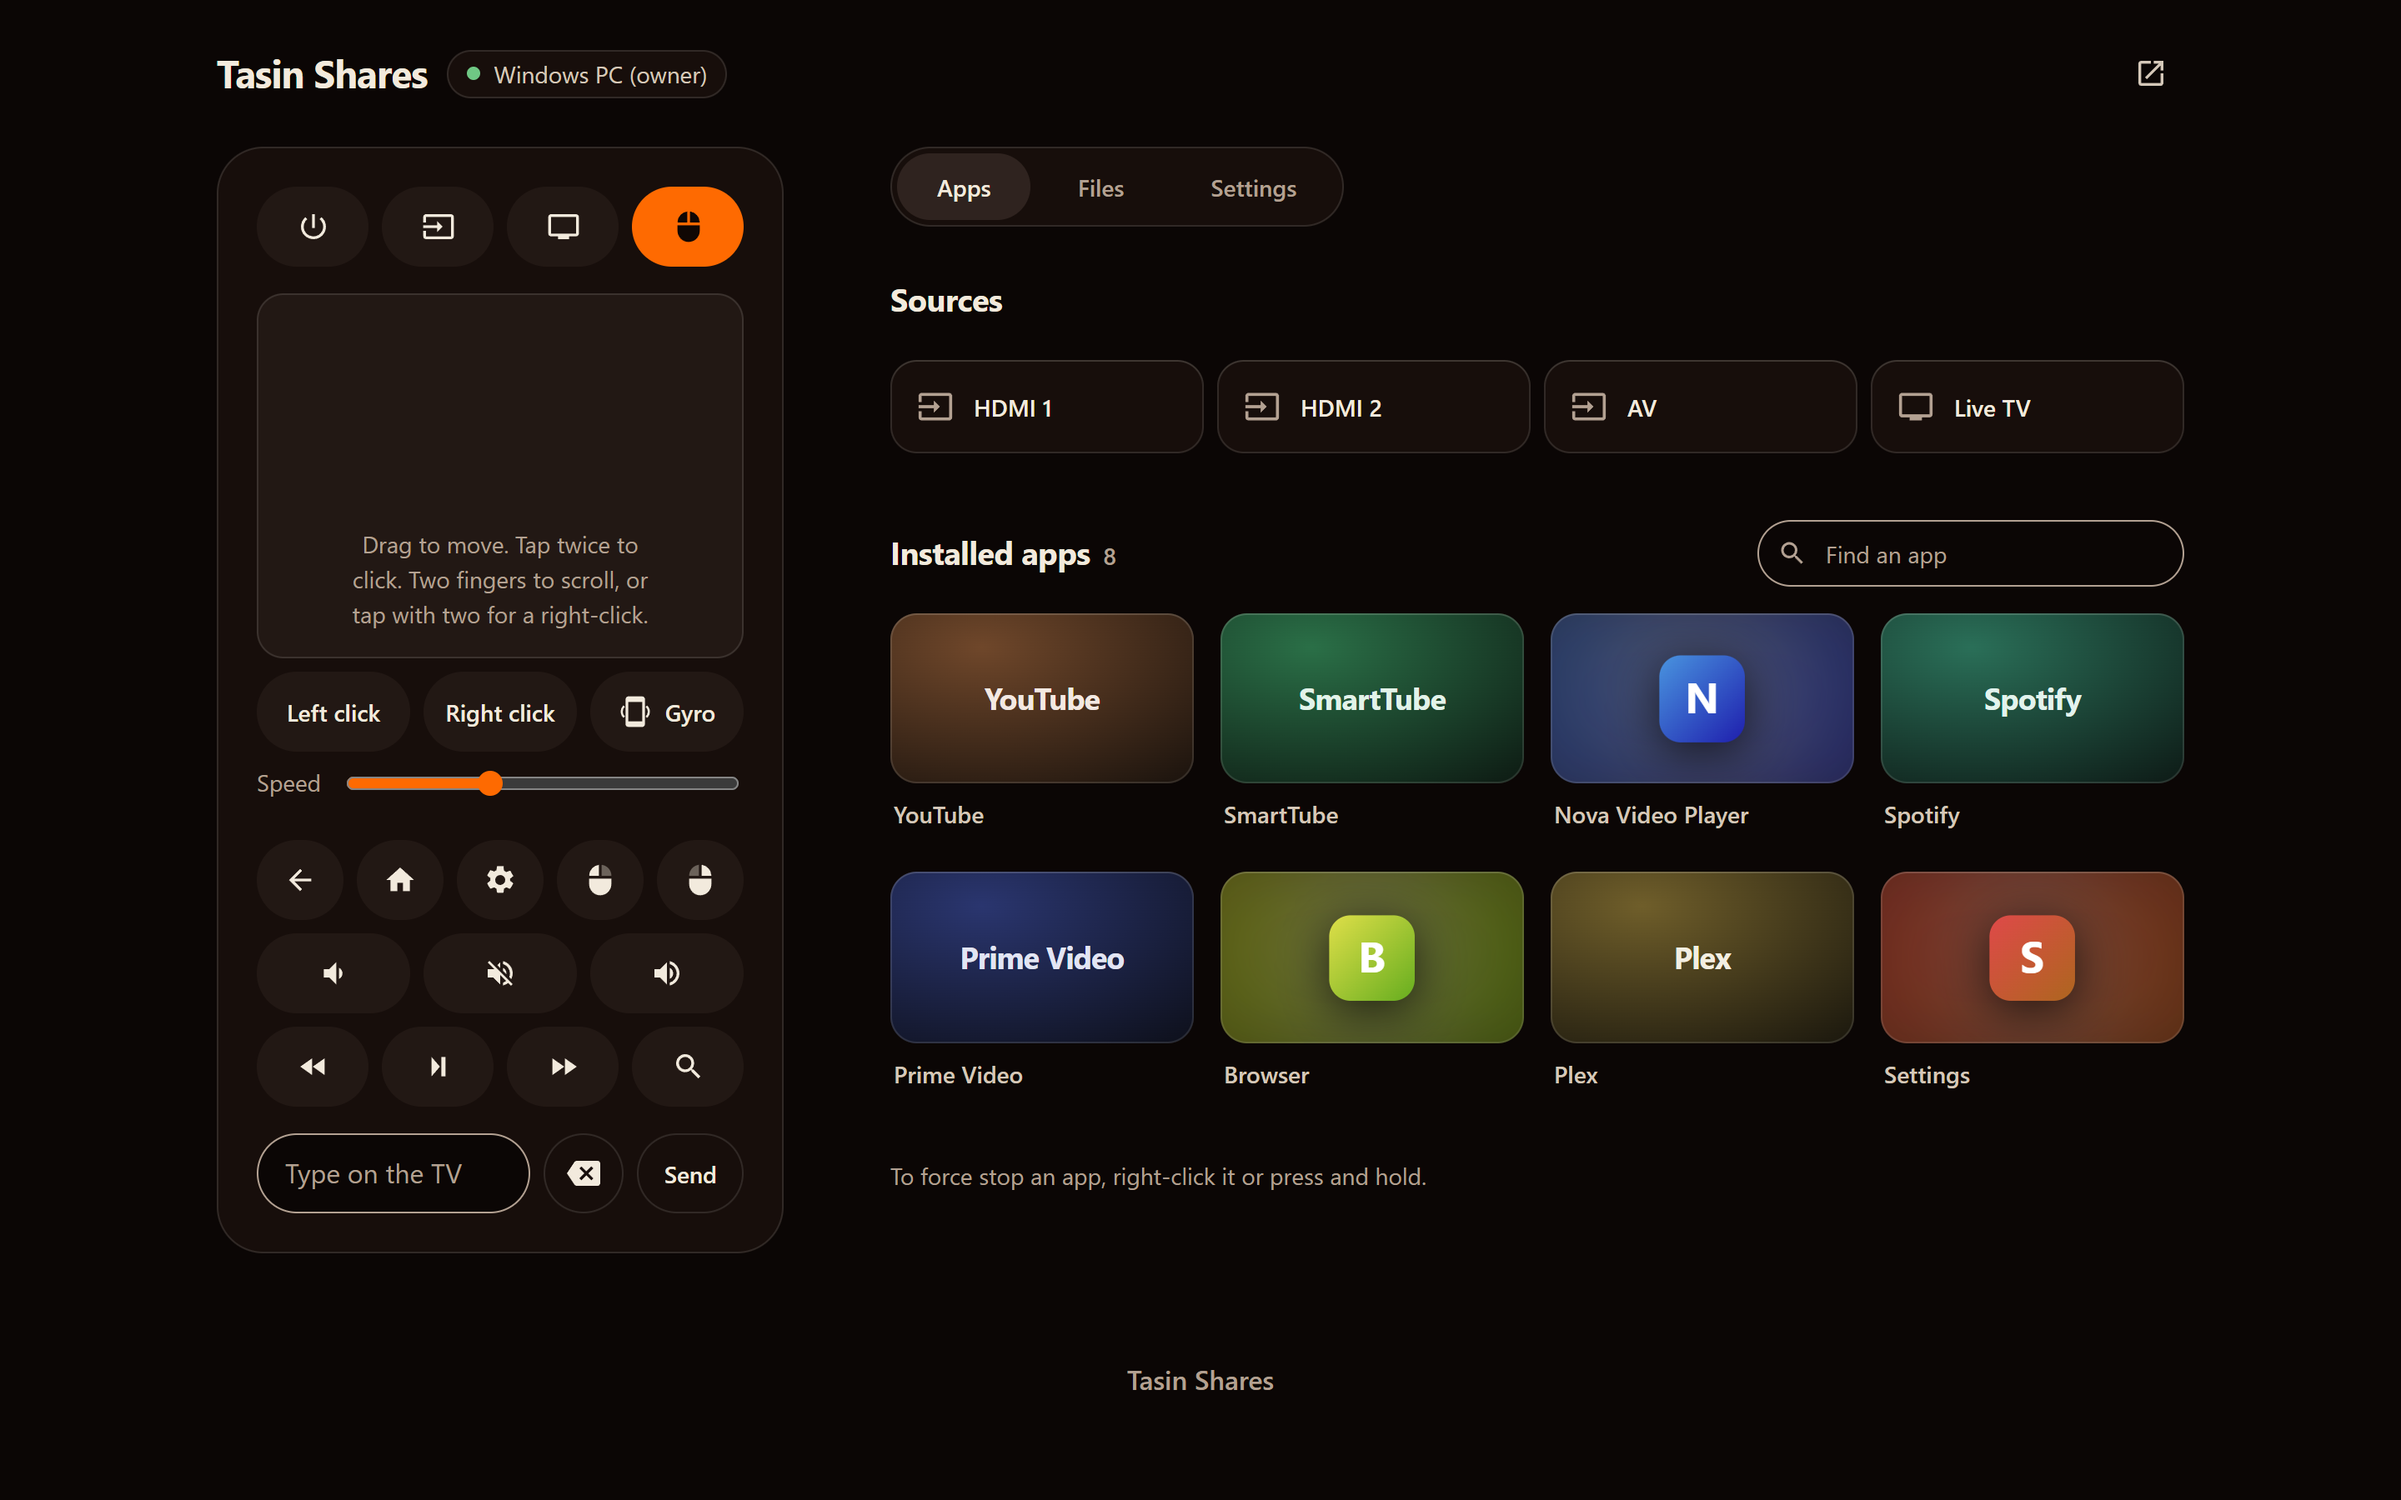
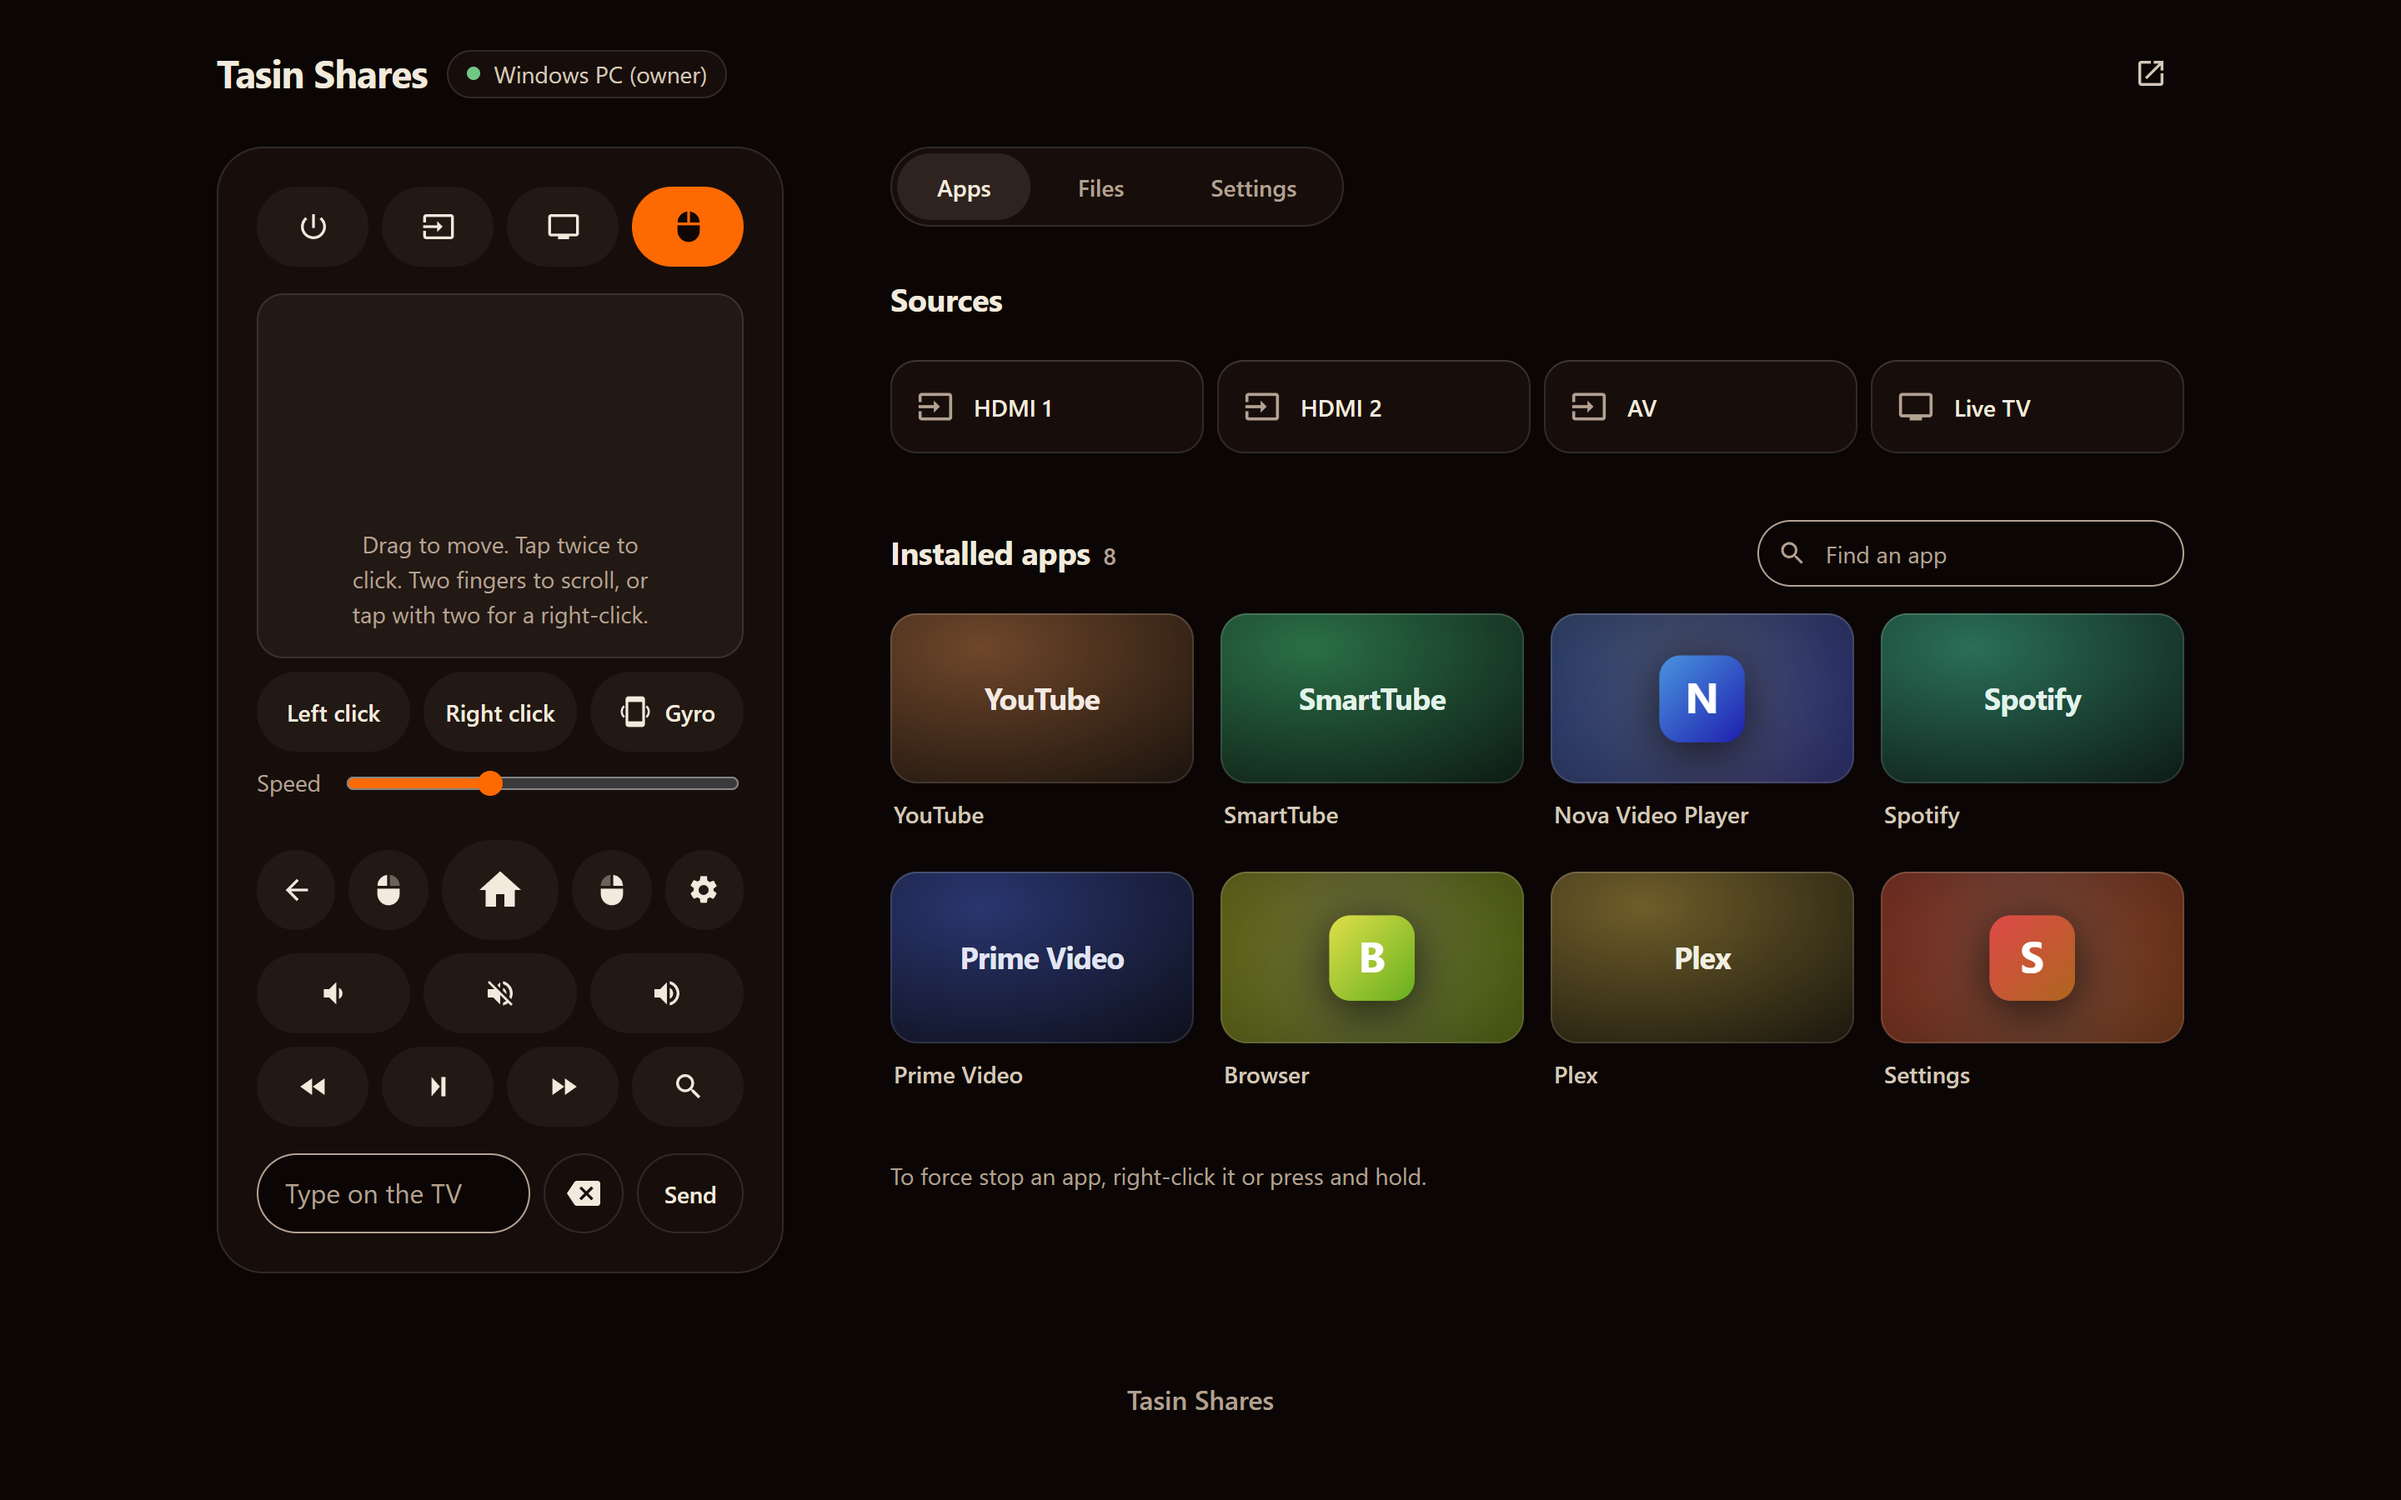
2.5: right-click as a long press, which Android TV apps answer; Home centred and larger on the remote

diff --git a/app/src/main/assets/index.html b/app/src/main/assets/index.html
@@ -161,6 +161,10 @@ main { display: grid; gap: var(--space-lg); }
 .rrow { display: grid; grid-template-columns: repeat(3, minmax(0, 1fr)); gap: var(--space-xs); margin-bottom: var(--space-xs); }
 .rrow.r4 { grid-template-columns: repeat(4, minmax(0, 1fr)); }
 .rrow.r5 { grid-template-columns: repeat(5, minmax(0, 1fr)); }
+/* Home, the key a hand looks for first: centred, wider and a little taller than its neighbours */
+.rrow.nav { grid-template-columns: minmax(0, 1fr) minmax(0, 1fr) minmax(0, 1.5fr) minmax(0, 1fr) minmax(0, 1fr); align-items: center; }
+.rk.home { height: calc(var(--key) + 12px); }
+.rk.home svg { width: 30px; height: 30px; }
 .rk { height: var(--key); display: grid; place-items: center; border-radius: var(--radius-pill); background: var(--color-paper-3); color: var(--color-ink); transition: background-color var(--dur-short) var(--ease-out), color var(--dur-short) var(--ease-out), transform var(--dur-micro) var(--ease-out); }
 @media (hover: hover) { .rk:hover { background: var(--color-paper-4); } }
 .rk.on { background: var(--color-accent); color: var(--color-accent-ink); }
@@ -320,6 +324,8 @@ body.mini .pad { width: 196px; }
   .remote { padding: var(--space-md); }
   .rrow { gap: var(--space-xs); margin-bottom: var(--space-xs); }
   .rk { height: clamp(52px, 7.5dvh, 64px); }
+  .rk.home { height: calc(clamp(52px, 7.5dvh, 64px) + 12px); }
+  .remote .rk.home svg { width: 32px; height: 32px; }
   .remote svg { width: 24px; height: 24px; }
   .pad { width: min(74vw, 300px); }
   .pad svg { width: 30px; height: 30px; }
@@ -460,12 +466,12 @@ body.mini .watermark { display: none; }
         <button class="r" data-key="22" data-repeat type="button" aria-label="Right"><svg aria-hidden="true"><use href="#i-right"/></svg></button>
         <button class="d" data-key="20" data-repeat type="button" aria-label="Down"><svg aria-hidden="true"><use href="#i-down"/></svg></button>
       </div>
-      <div class="rrow r5">
+      <div class="rrow r5 nav">
         <button class="rk" data-key="4" type="button" title="Back" aria-label="Back"><svg aria-hidden="true"><use href="#i-back"/></svg></button>
-        <button class="rk" data-key="3" type="button" title="Home" aria-label="Home"><svg aria-hidden="true"><use href="#i-home"/></svg></button>
-        <button class="rk" data-key="176" type="button" title="Settings" aria-label="Settings"><svg aria-hidden="true"><use href="#i-settings"/></svg></button>
         <button class="rk" id="lclickBtn" type="button" title="Left click" aria-label="Left click"><svg aria-hidden="true"><use href="#i-lclick"/></svg></button>
-        <button class="rk" id="rclickBtn" type="button" title="Right click" aria-label="Right click"><svg aria-hidden="true"><use href="#i-rclick"/></svg></button>
+        <button class="rk home" data-key="3" type="button" title="Home" aria-label="Home"><svg aria-hidden="true"><use href="#i-home"/></svg></button>
+        <button class="rk" id="rclickBtn" type="button" title="Right click (opens the item's options)" aria-label="Right click"><svg aria-hidden="true"><use href="#i-rclick"/></svg></button>
+        <button class="rk" data-key="176" type="button" title="Settings" aria-label="Settings"><svg aria-hidden="true"><use href="#i-settings"/></svg></button>
       </div>
       <div class="rrow">
         <button class="rk" data-key="25" data-repeat type="button" title="Volume down" aria-label="Volume down"><svg aria-hidden="true"><use href="#i-voldown"/></svg></button>
@@ -1000,9 +1006,16 @@ function setMouseMode(on) {
   if (!on) gyroStop();
 }
 $('#mouseBtn').onclick = () => setMouseMode(!mouseOn);
-$('#rclickBtn').onclick = () => mouseClick(2);
+// Android TV apps mostly ignore a mouse's right button; their right-click is a long press, which opens an
+// item's options. So right-click holds the left button down for 0.7 s at the cursor.
+function rightClick() {
+  if (!mouseReady()) return;
+  mouseButtons(mbtn | 1);
+  setTimeout(() => mouseButtons(mbtn & ~1), 700);
+}
+$('#rclickBtn').onclick = rightClick;
 $('#lclickBtn').onclick = () => mouseClick(1);
-$('#tpRight').onclick = () => mouseClick(2);
+$('#tpRight').onclick = rightClick;
 // Left click: a tap clicks; holding it keeps the button down, so a drag on the trackpad drags.
 const tpLeft = $('#tpLeft');
 tpLeft.addEventListener('pointerdown', e => { if (!mouseReady()) return; tpLeft.setPointerCapture(e.pointerId); mouseButtons(mbtn | 1); });
@@ -1042,14 +1055,14 @@ tp.addEventListener('pointermove', e => {
     const now = performance.now();
     if (ev === 'pointerup' && tpMoved < 10 && now - tpDown < 280) {
       // Two fingers at once: a right-click. One finger: two quick taps make a left click, so a stray tap never clicks.
-      if (tpMax >= 2) { mouseClick(2); lastTap = 0; }
+      if (tpMax >= 2) { rightClick(); lastTap = 0; }
       else if (now - lastTap < 400) { mouseClick(1); lastTap = 0; }
       else lastTap = now;
     }
   }
 }));
 tp.addEventListener('wheel', e => { e.preventDefault(); if (controlling) mouseMove(0, 0, -Math.sign(e.deltaY)); }, { passive: false });
-tp.addEventListener('contextmenu', e => { e.preventDefault(); mouseClick(2); });
+tp.addEventListener('contextmenu', e => { e.preventDefault(); rightClick(); });
 
 // The gyro: the phone's rotation rate moves the cursor, as an air mouse. Turning left and right moves it across,
 // tilting the top up and down moves it up and down. Browsers give sensors only to secure (HTTPS) pages.

diff --git a/README.md b/README.md
@@ -165,7 +165,7 @@ From a clone of this repository, `TV_HOST=192.168.0.105 ./install.sh` builds the
 
 | Want to | Do this |
 |---|---|
-| Use the TV with a mouse | Press the mouse key at the top right of the remote. The D-pad turns into a trackpad: drag to move the cursor, tap twice to click, drag two fingers to scroll, and tap with two fingers to right-click. Hold **Left click** while you drag to drag things. The **Left click** and **Right click** keys sit next to Settings on the basic remote too. |
+| Use the TV with a mouse | Press the mouse key at the top right of the remote. The D-pad turns into a trackpad: drag to move the cursor, tap twice to click, drag two fingers to scroll, and tap with two fingers to right-click. Hold **Left click** while you drag to drag things. The **Left click** and **Right click** keys sit on either side of **Home** on the basic remote too. On Android TV a right-click is a long press, which opens the item's options. |
 | Use the gyro mouse | In trackpad mode, press **Gyro**. The first time, the page offers the TV's secure page, because phone browsers share the motion sensor only with secure (HTTPS) pages. Your browser warns once, because the TV made its own certificate; choose **Advanced**, then **Proceed**. Then press **Gyro**, point the top of the phone at the TV, and move it. **Speed** sets how far the cursor goes. |
 | Search on the TV | Open a search box on the TV, type in **Type on the TV**, and press **Send**. It types the text and presses Enter, so the search runs. **Backspace** next to it deletes on the TV, and holding it repeats. |
 | Use the TV with your mouse and keyboard | Press the screen button on the remote, then click into the picture and choose **Keyboard**. |
